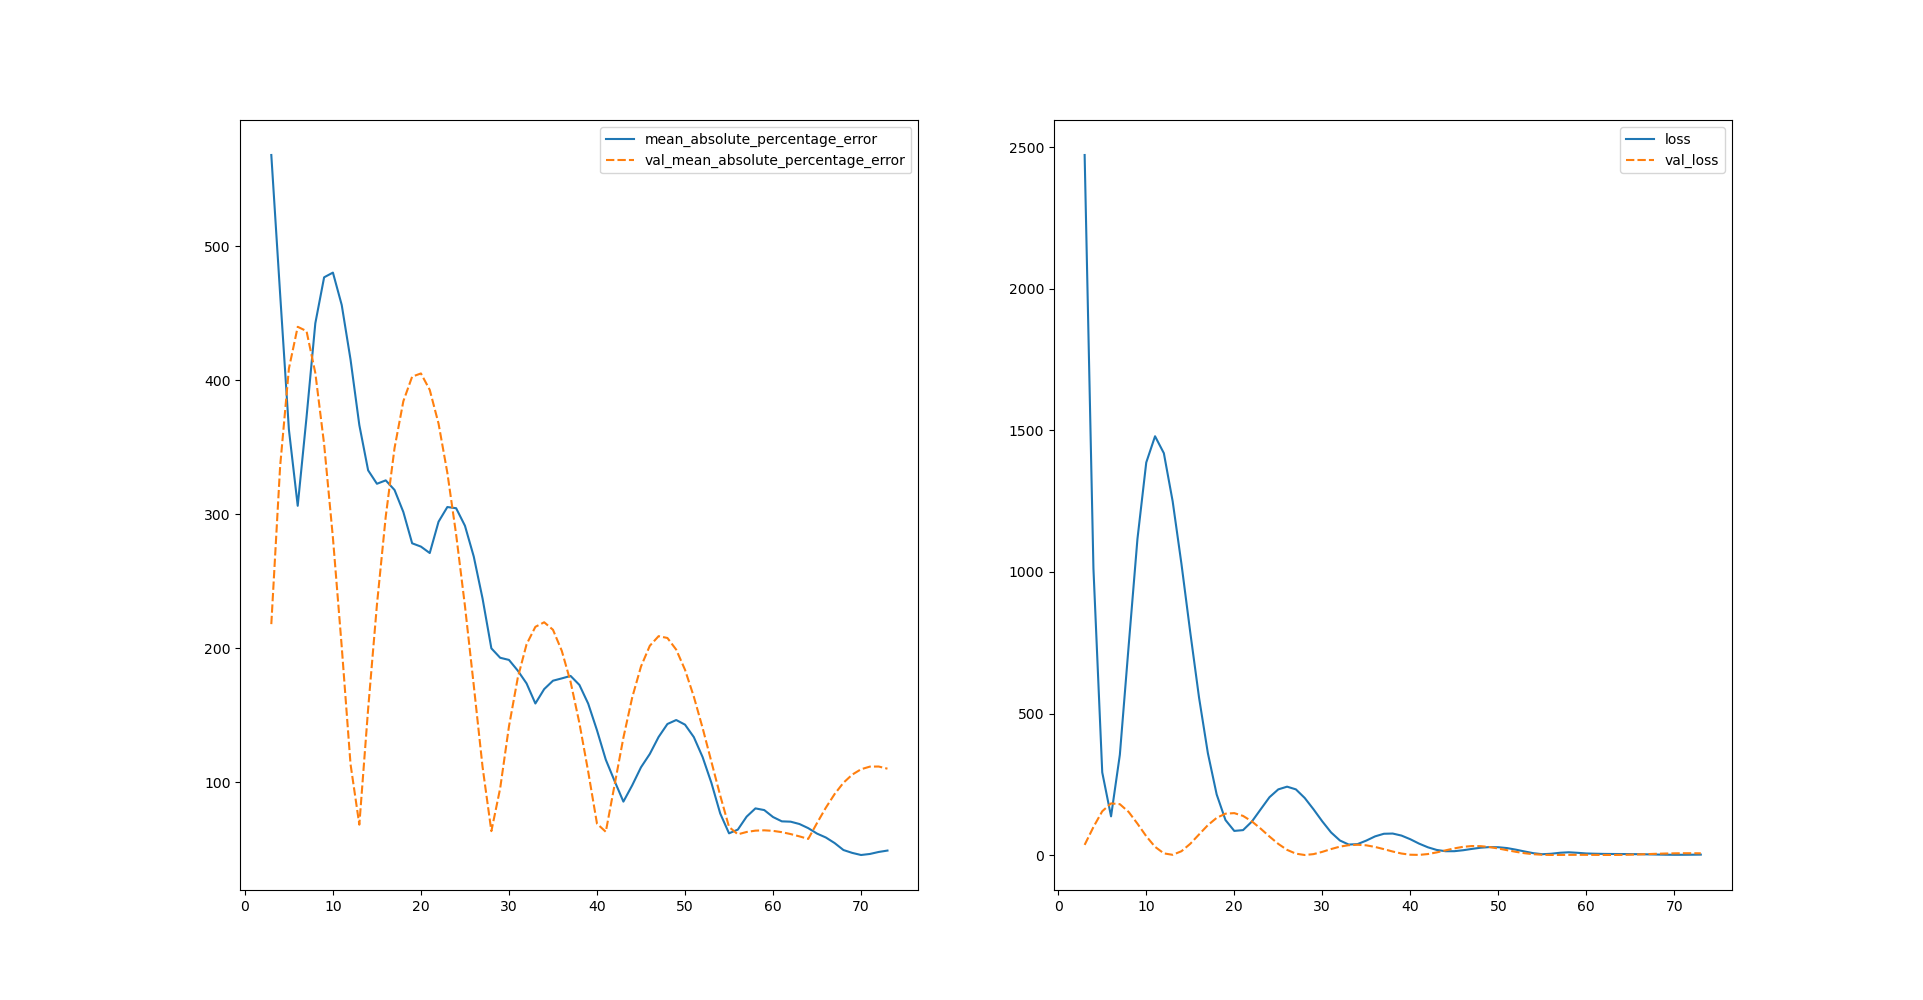
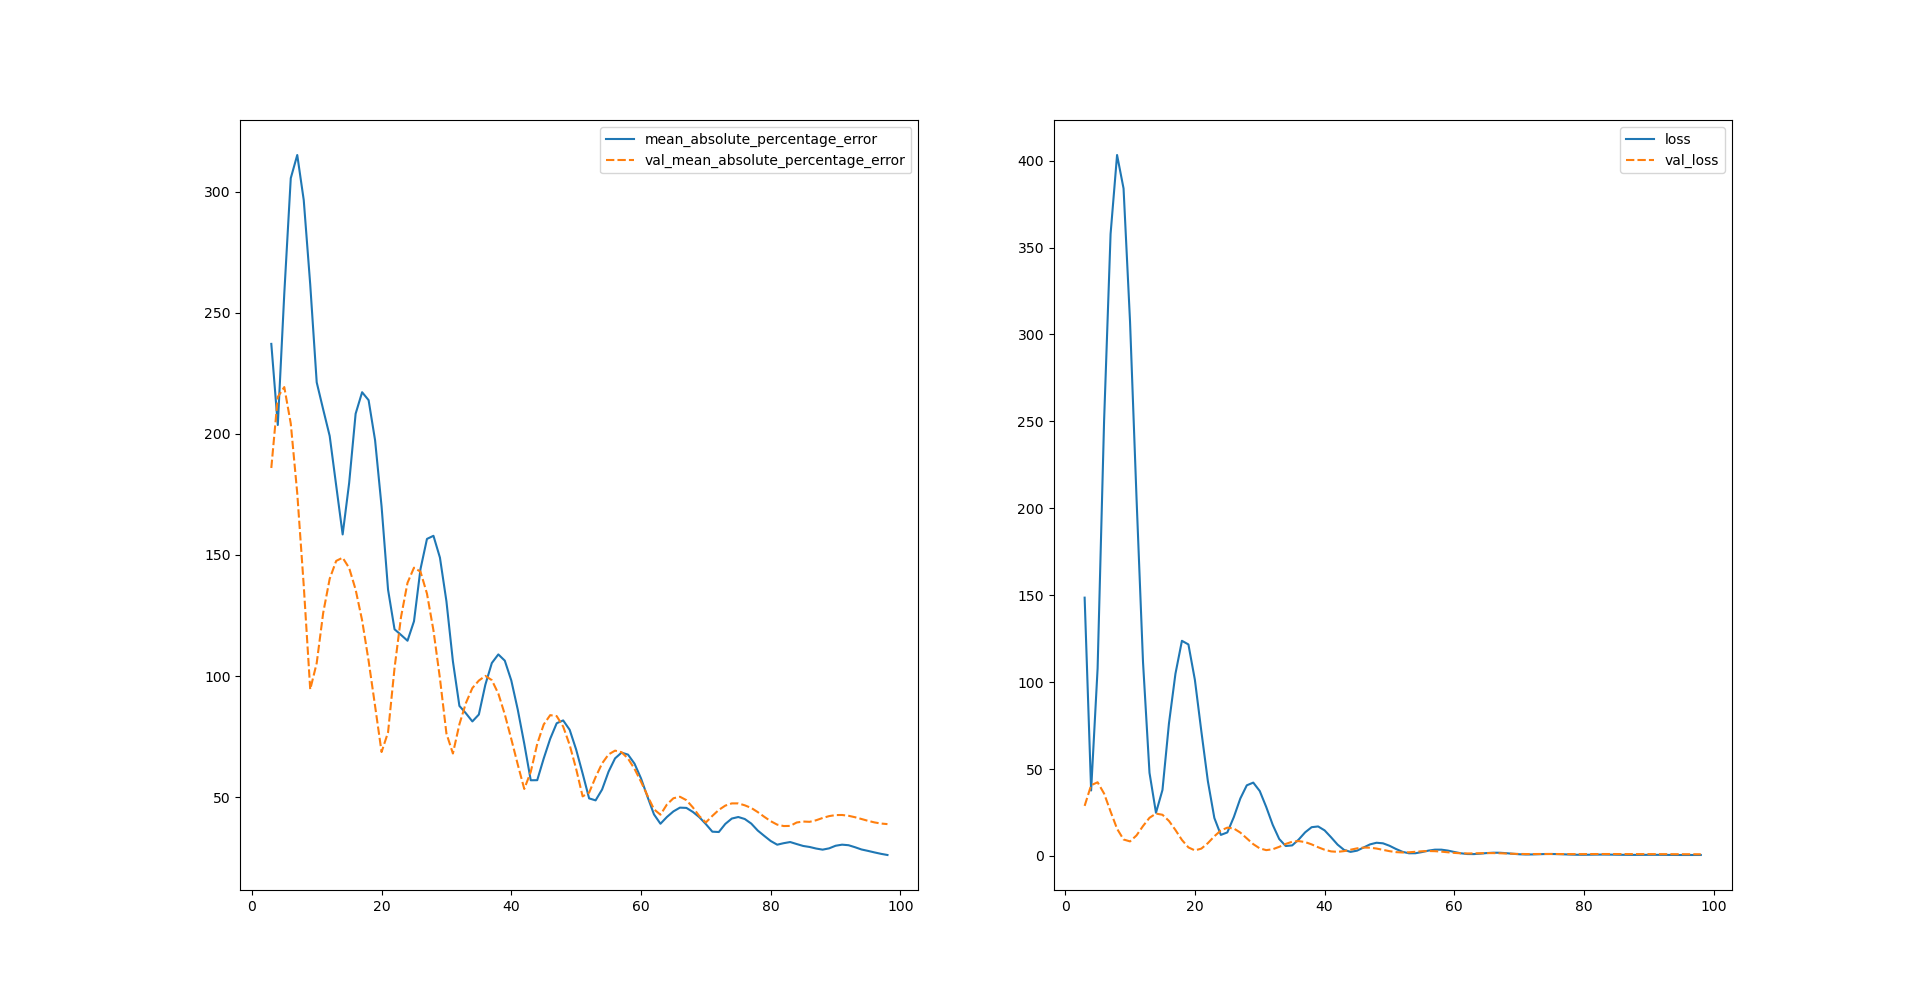
Final protones

diff --git a/nucleos_separados.py b/nucleos_separados.py
@@ -61,7 +61,7 @@ model.compile(optimizer='adam', loss='mean_squared_error', metrics=['mean_absolu
 model.summary()
 
 validation_split=0.2
-history=model.fit(X,Y,workers=4,epochs=125,verbose=2,validation_split=validation_split)
+history=model.fit(X,Y,workers=4,epochs=100,verbose=2,validation_split=validation_split)
 
 errores=pd.DataFrame(history.history)
 f=plt.figure(figsize=(20,10))
